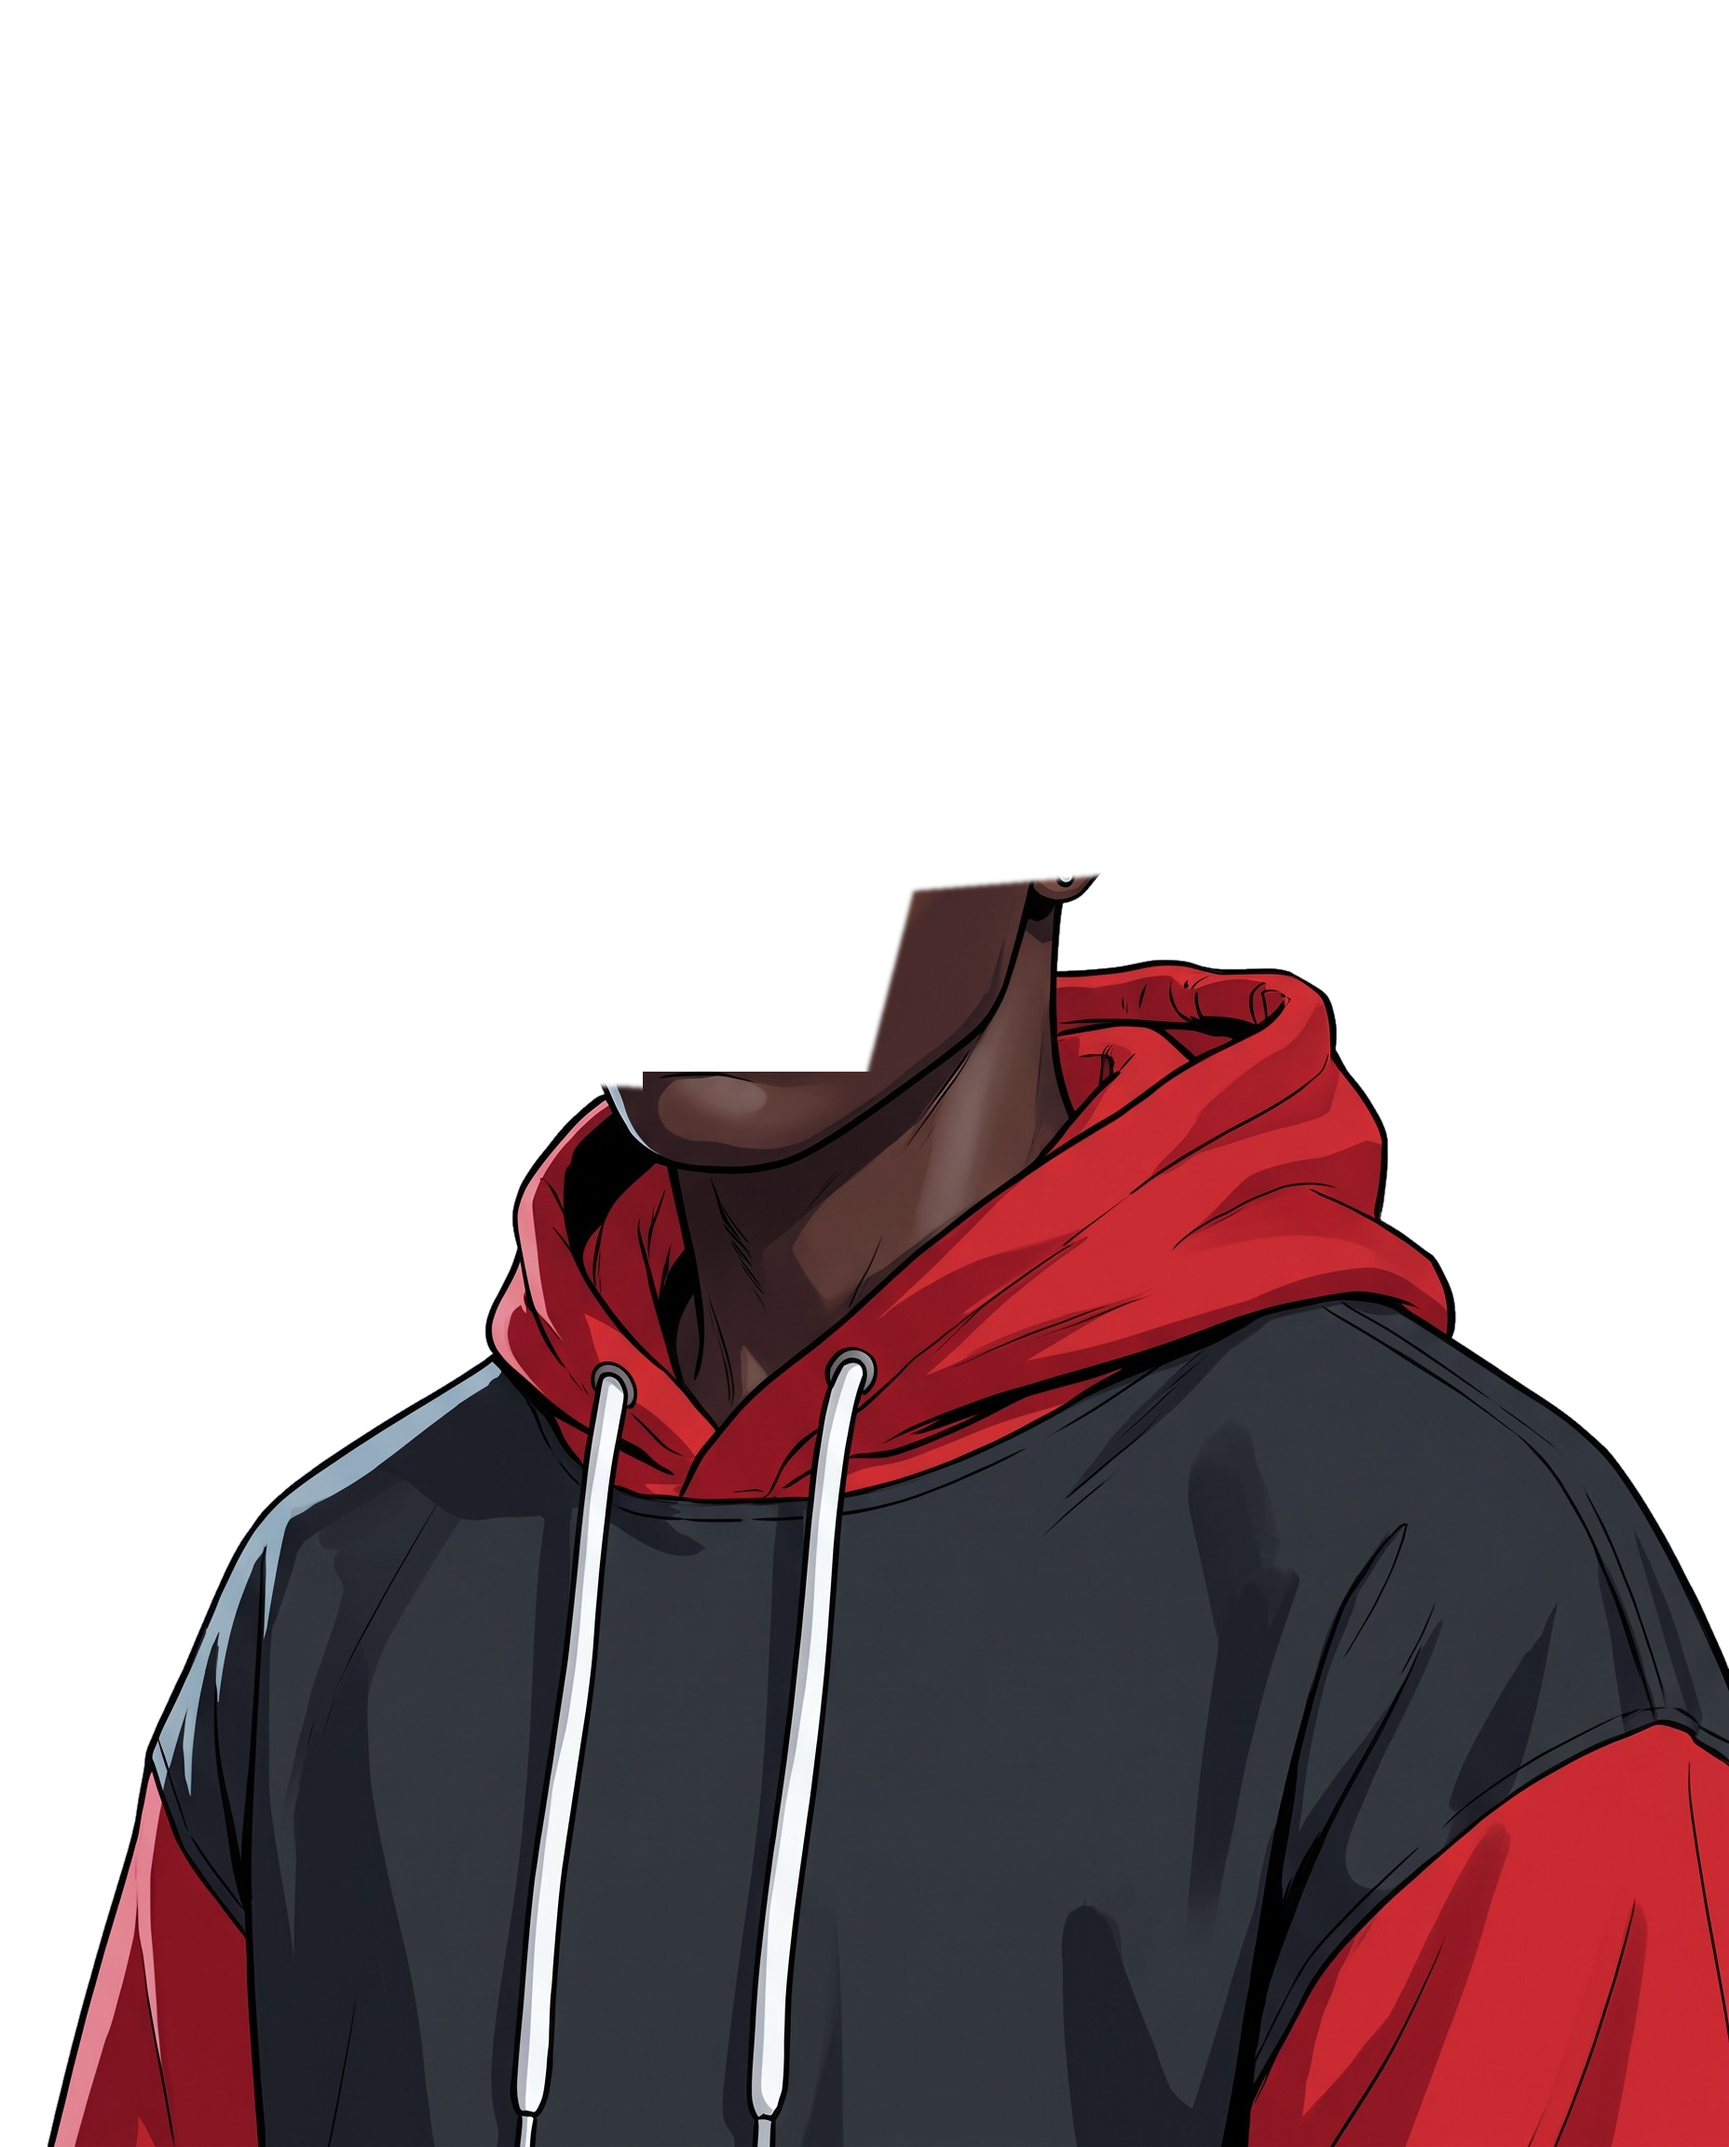
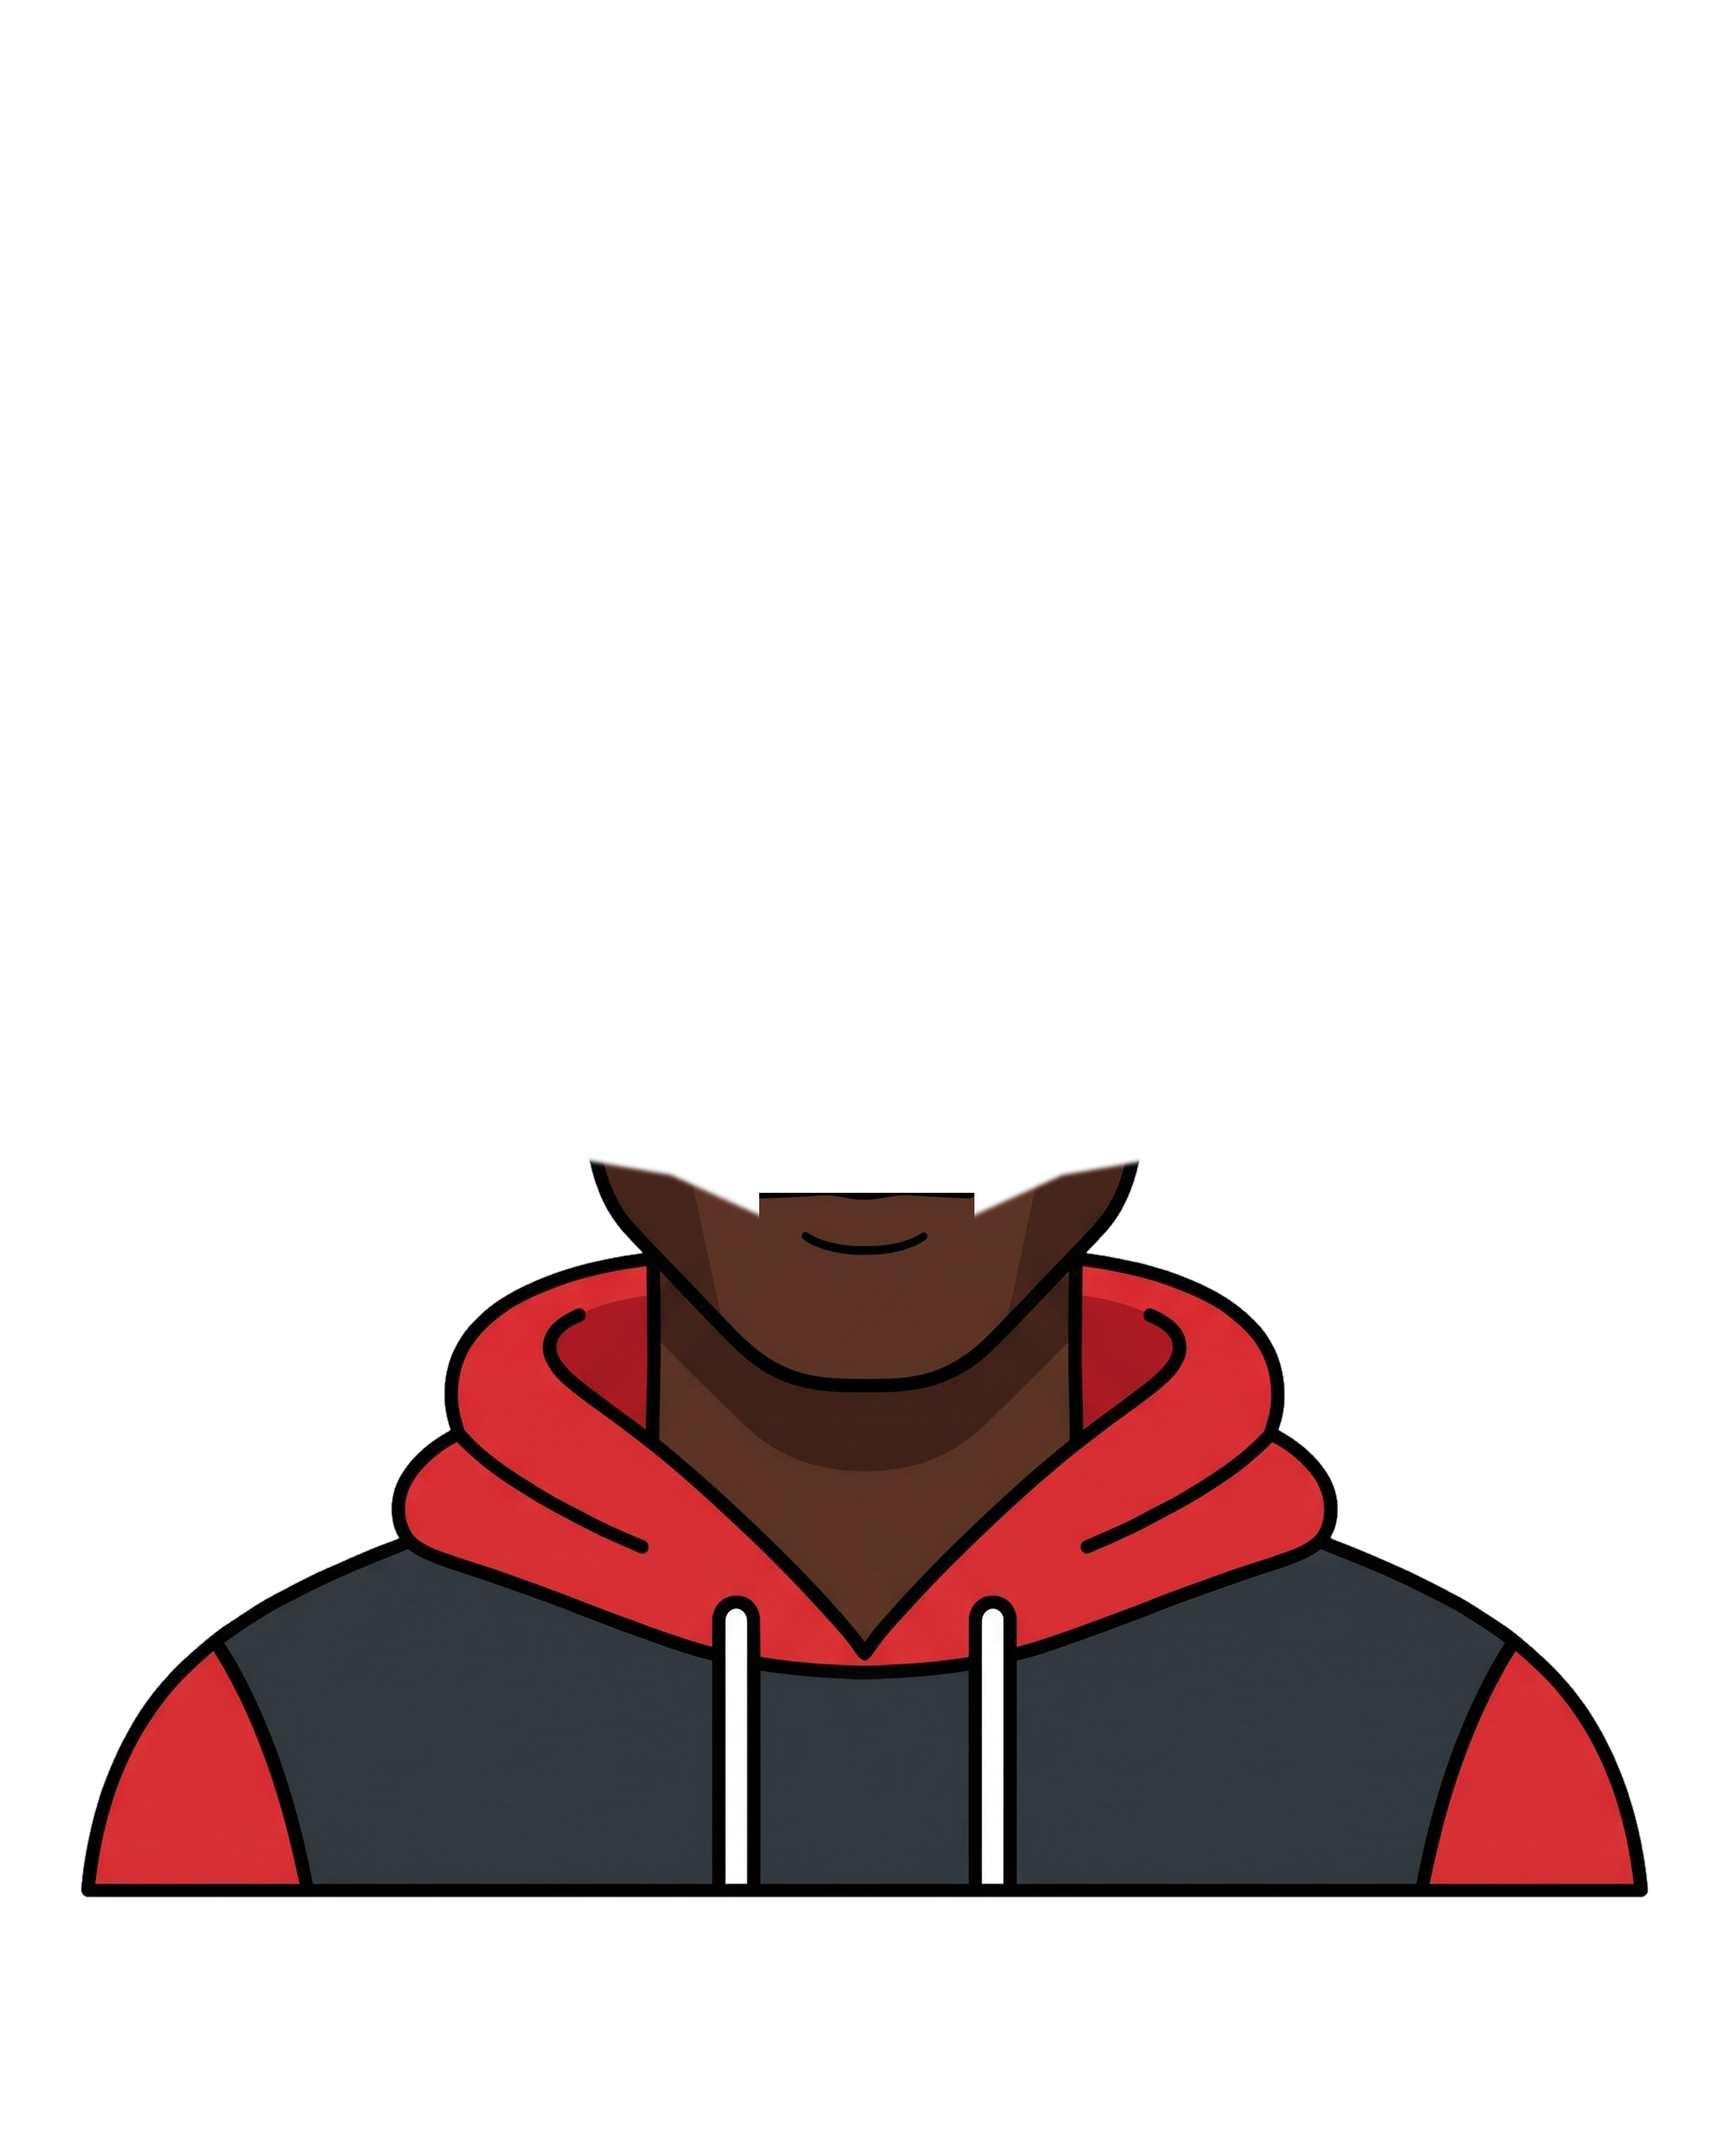
Host art: the flat vector portrait with round glasses, no earring
Switches the base portrait to the flat illustration the review picked, with
the stud painted out before the layers are cut. The rig script gains a
glasses layer (the frame lines inside a glasses box, minus brows and eyes)
that the host draws above the lids and mouth so blinks never cover the
frames, a list of spots to paint out, and a style flag. In the flat style
the drawn arms and hands use flat fills instead of gradients.

Claude-Session: https://claude.ai/code/session_01CTvnLS7TEWDTE3fQyBDcgb

diff --git a/video-pipeline/remotion/src/avatar/RasterHost.tsx b/video-pipeline/remotion/src/avatar/RasterHost.tsx
@@ -198,7 +198,9 @@ export const RasterHost: React.FC<RasterHostProps> = ({pose, face, prevPose, pre
   const lipU = C.lip_upper;
   const lipL = C.lip_lower;
   const sleeve = C.sleeve;
-  const sleeveS = C.sleeve_shadow;
+  const sleeveS = C.sleeve_shadow === C.sleeve ? darken(C.sleeve, 0.3) : C.sleeve_shadow;
+  const flat = (info as {style?: string}).style === 'flat';
+  const hasGlasses = Boolean((info as {glasses?: boolean}).glasses) && 'glasses.png' in info.boxes;
 
   // ------------------------------------------------------------ body tween
   const motion: Motion = {f2, talk: loud};
@@ -459,12 +461,12 @@ export const RasterHost: React.FC<RasterHostProps> = ({pose, face, prevPose, pre
     <svg viewBox={`0 0 ${W} ${VIEW_H}`} width={width} style={{overflow: 'visible', transform: flip ? 'scaleX(-1)' : undefined, ...style}}>
       <defs>
         <linearGradient id={`sleeve-${uid}`} x1="0" y1="0" x2="1" y2="1">
-          <stop offset="0" stopColor={lighten(sleeve, 0.08)} />
-          <stop offset="1" stopColor={sleeveS} />
+          <stop offset="0" stopColor={flat ? sleeve : lighten(sleeve, 0.08)} />
+          <stop offset="1" stopColor={flat ? sleeve : sleeveS} />
         </linearGradient>
         <radialGradient id={`skin-${uid}`} cx="0.35" cy="0.3" r="0.9">
-          <stop offset="0" stopColor={lighten(skin, 0.1)} />
-          <stop offset="1" stopColor={skinS} />
+          <stop offset="0" stopColor={flat ? skin : lighten(skin, 0.1)} />
+          <stop offset="1" stopColor={flat ? skin : skinS} />
         </radialGradient>
       </defs>
       <g transform={`translate(0 ${bob}) rotate(${B.bodyRot} ${nx} ${VIEW_H}) translate(${nx} ${VIEW_H}) scale(1 ${1 + breath * 0.004}) translate(${-nx} ${-VIEW_H})`}>
@@ -482,6 +484,7 @@ export const RasterHost: React.FC<RasterHostProps> = ({pose, face, prevPose, pre
             <Eye side="l" />
             <Eye side="r" />
             <Mouth />
+            {hasGlasses ? <Layer name={'glasses.png' as keyof typeof info.boxes} /> : null}
           </g>
           {facepalmAmt > 0 ? (
             <g transform={`translate(${(1 - facepalmAmt) * 300} ${(1 - facepalmAmt) * 400})`} opacity={facepalmAmt}>

diff --git a/video-pipeline/pipeline/host_rig.py b/video-pipeline/pipeline/host_rig.py
@@ -8,6 +8,7 @@ and writes the layers the raster host rig draws:
   remotion/public/host/brow-l.png     the brows as separate patches (moved/rotated for expressions)
   remotion/public/host/brow-r.png
   remotion/public/host/mouth-heal.png skin painted over the mouth, shown under drawn mouth shapes
+  remotion/public/host/glasses.png    the glasses frames, drawn above the eyes (if the landmarks name a glasses box)
   remotion/public/host/host.json      boxes, centres and sampled colours the rig needs
 
 The landmarks are picked once per portrait (see projects/host-art/README.md).
@@ -91,6 +92,11 @@ def build(portrait: Path, landmarks: Path, out: Path) -> dict:
     L = json.loads(landmarks.read_text())
     im = cv2.imread(str(portrait))
     h, w = im.shape[:2]
+    # small things to paint out first (an earring, a stray mark): [x, y, radius]
+    for x, y, r in L.get("remove_spots", []):
+        spot = np.zeros((h, w), np.uint8)
+        cv2.circle(spot, (int(x), int(y)), int(r), 255, -1)
+        im = cv2.inpaint(im, spot, int(r) + 4, cv2.INPAINT_TELEA)
     out.mkdir(parents=True, exist_ok=True)
     fg = key_background(im)
 
@@ -127,6 +133,20 @@ def build(portrait: Path, landmarks: Path, out: Path) -> dict:
     def feather(m: np.ndarray, k: int = 2) -> np.ndarray:
         return cv2.GaussianBlur(m, (k * 2 + 1, k * 2 + 1), 0)
 
+    # glasses: the dark frame lines inside the glasses box, leaving out the brows and the eyes themselves
+    glasses = None
+    if L.get("glasses_box"):
+        gx0, gy0, gx1, gy1 = L["glasses_box"]
+        g = np.zeros((h, w), np.uint8)
+        v = cv2.cvtColor(im, cv2.COLOR_BGR2HSV)[:, :, 2]
+        g[gy0:gy1, gx0:gx1] = (v[gy0:gy1, gx0:gx1] < L.get("glasses_vmax", 70)).astype(np.uint8) * 255
+        for b in (L["brow_l"], L["brow_r"]):
+            g[b[1] : b[3], b[0] : b[2]] = 0
+        for e in (L["eye_shape_l"], L["eye_shape_r"]):
+            cv2.ellipse(g, (e["cx"], e["cy"]), (e["rx"] + L.get("glasses_eye_margin", 18), e["ry"] + L.get("glasses_eye_margin", 18)), 0, 0, 360, 0, -1)
+        g = cv2.dilate(g, np.ones((3, 3), np.uint8))
+        glasses = cv2.GaussianBlur(g, (3, 3), 0)
+
     layers = {
         "body.png": (cut(im, body_alpha), None),
         "head.png": (cut(healed, head_alpha), None),
@@ -134,6 +154,8 @@ def build(portrait: Path, landmarks: Path, out: Path) -> dict:
         "brow-r.png": (cut(im, feather(brow_r), L["brow_r"]), L["brow_r"]),
         "mouth-heal.png": (cut(mouth_healed, cv2.min(mouth_soft, fg), L["mouth_box"]), L["mouth_box"]),
     }
+    if glasses is not None:
+        layers["glasses.png"] = (cut(im, glasses, L["glasses_box"]), L["glasses_box"])
     boxes = {}
     for name, (img, box) in layers.items():
         cv2.imwrite(str(out / name), img)
@@ -146,6 +168,8 @@ def build(portrait: Path, landmarks: Path, out: Path) -> dict:
     info = {
         "width": w,
         "height": h,
+        "style": L.get("style", "painted"),
+        "glasses": glasses is not None,
         "boxes": boxes,
         "brow_l": centroid(brow_l),
         "brow_r": centroid(brow_r),

diff --git a/video-pipeline/projects/host-art/README.md b/video-pipeline/projects/host-art/README.md
@@ -9,6 +9,8 @@ built from it by `pipeline/host_rig.py` into `remotion/public/host/`.
 1. Generate or commission a bust portrait in the house style (webtoon / manhwa
    character art: painted cel shading, fine dark line work, facing the camera,
    neutral closed mouth, eyes open, plain light background, about 1856x2304).
+   The current one is a flat vector illustration with round glasses; set
+   `"style": "flat"` or `"painted"` in landmarks.json to match the art.
    The current one came from a text-to-image tool with this brief:
 
    > Korean webtoon manhwa character art, painterly digital illustration with
